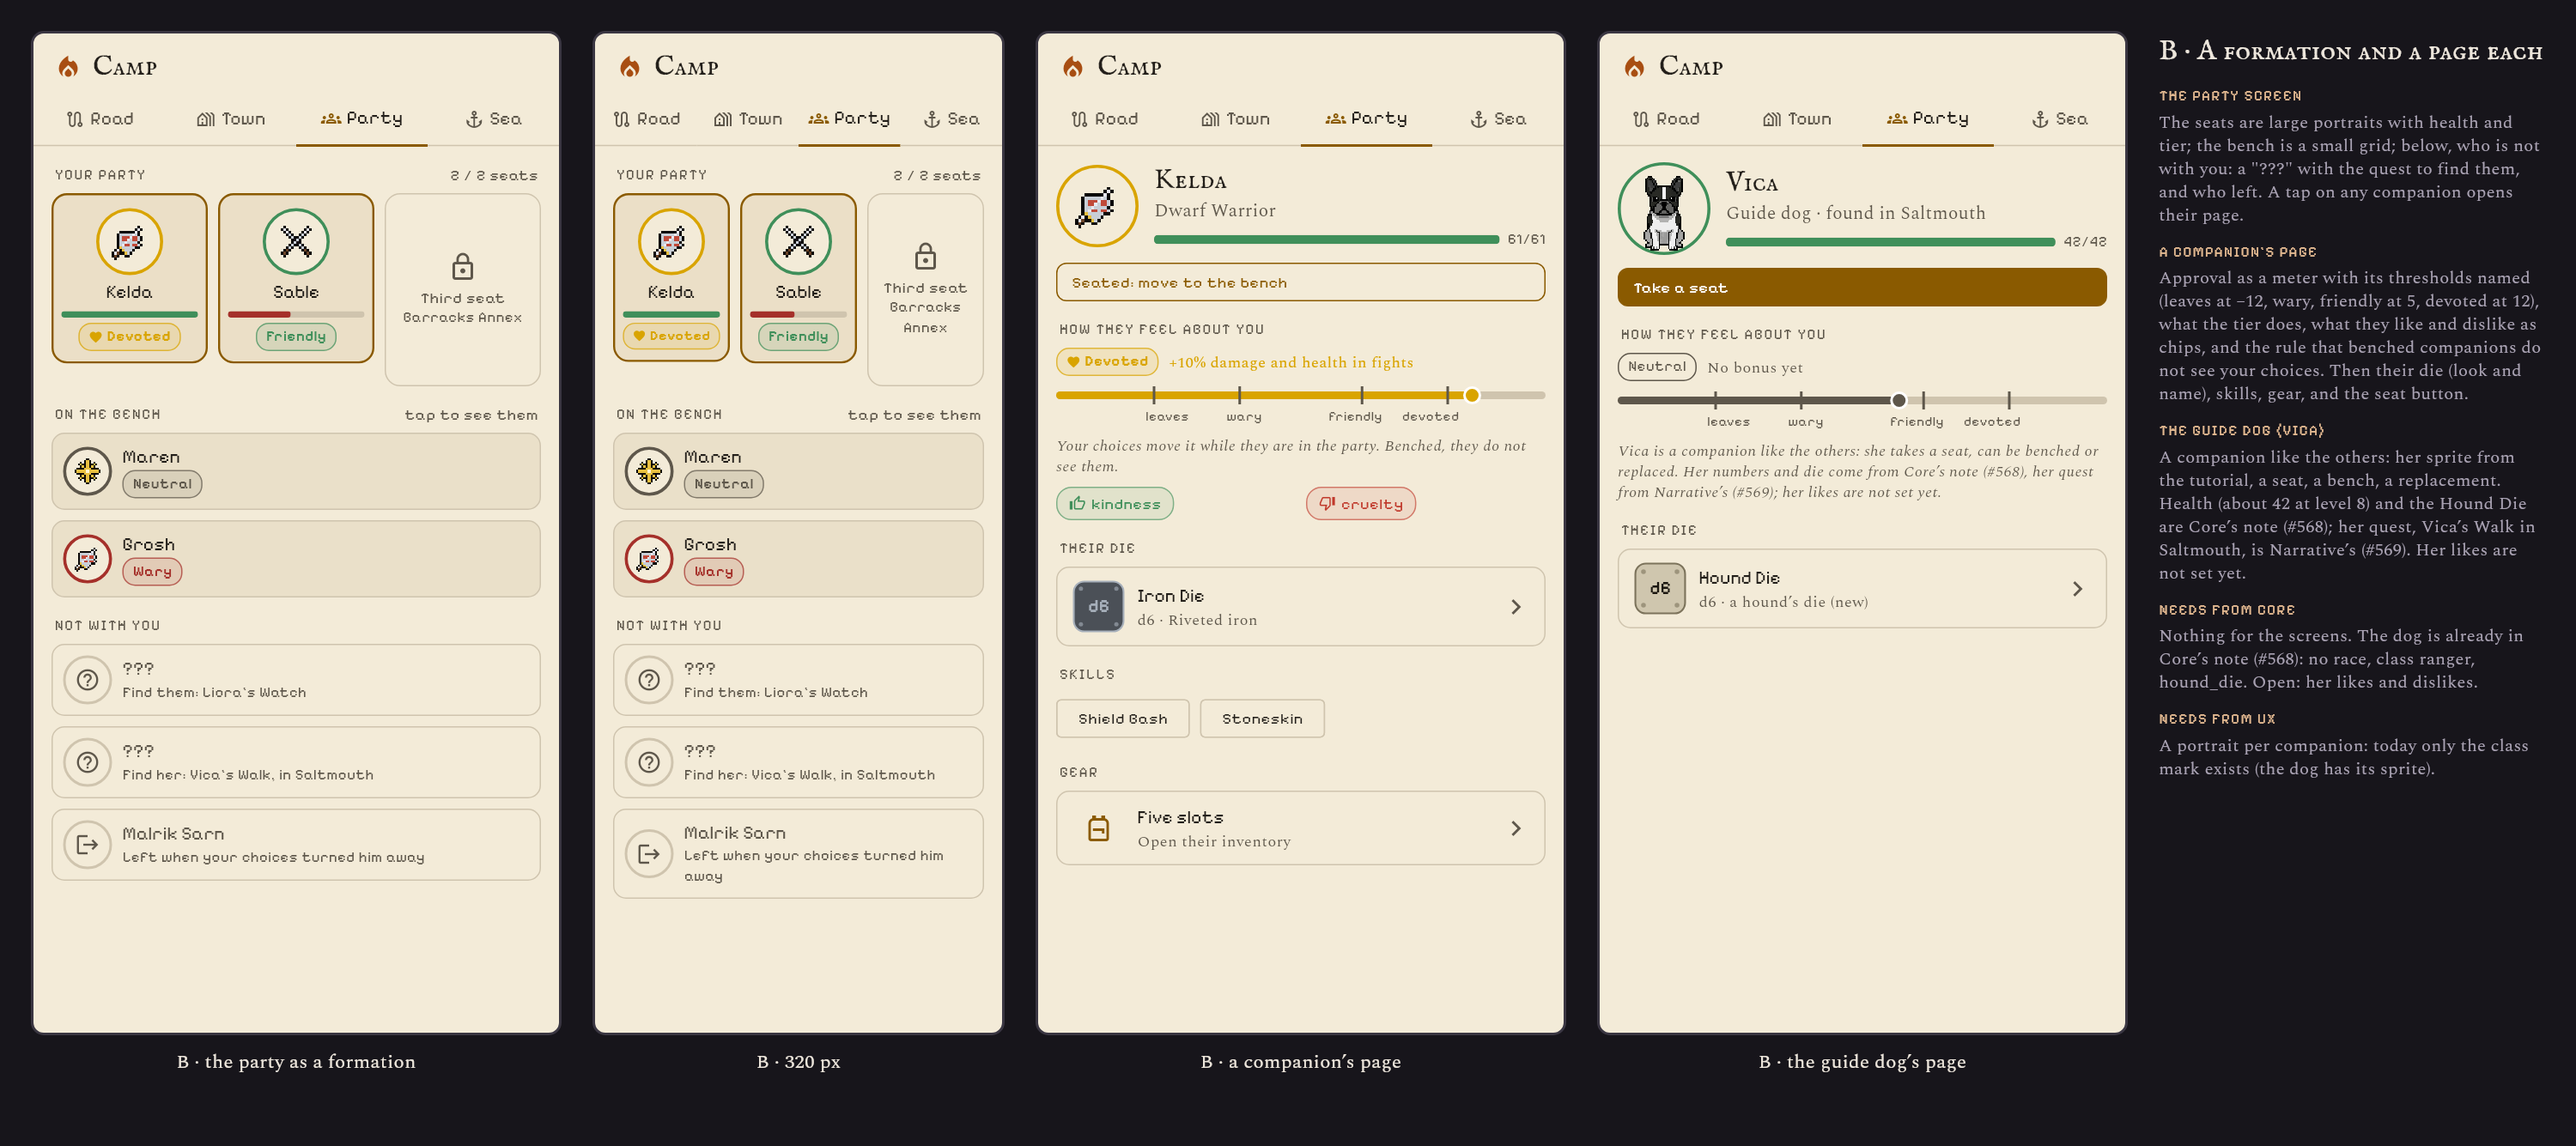
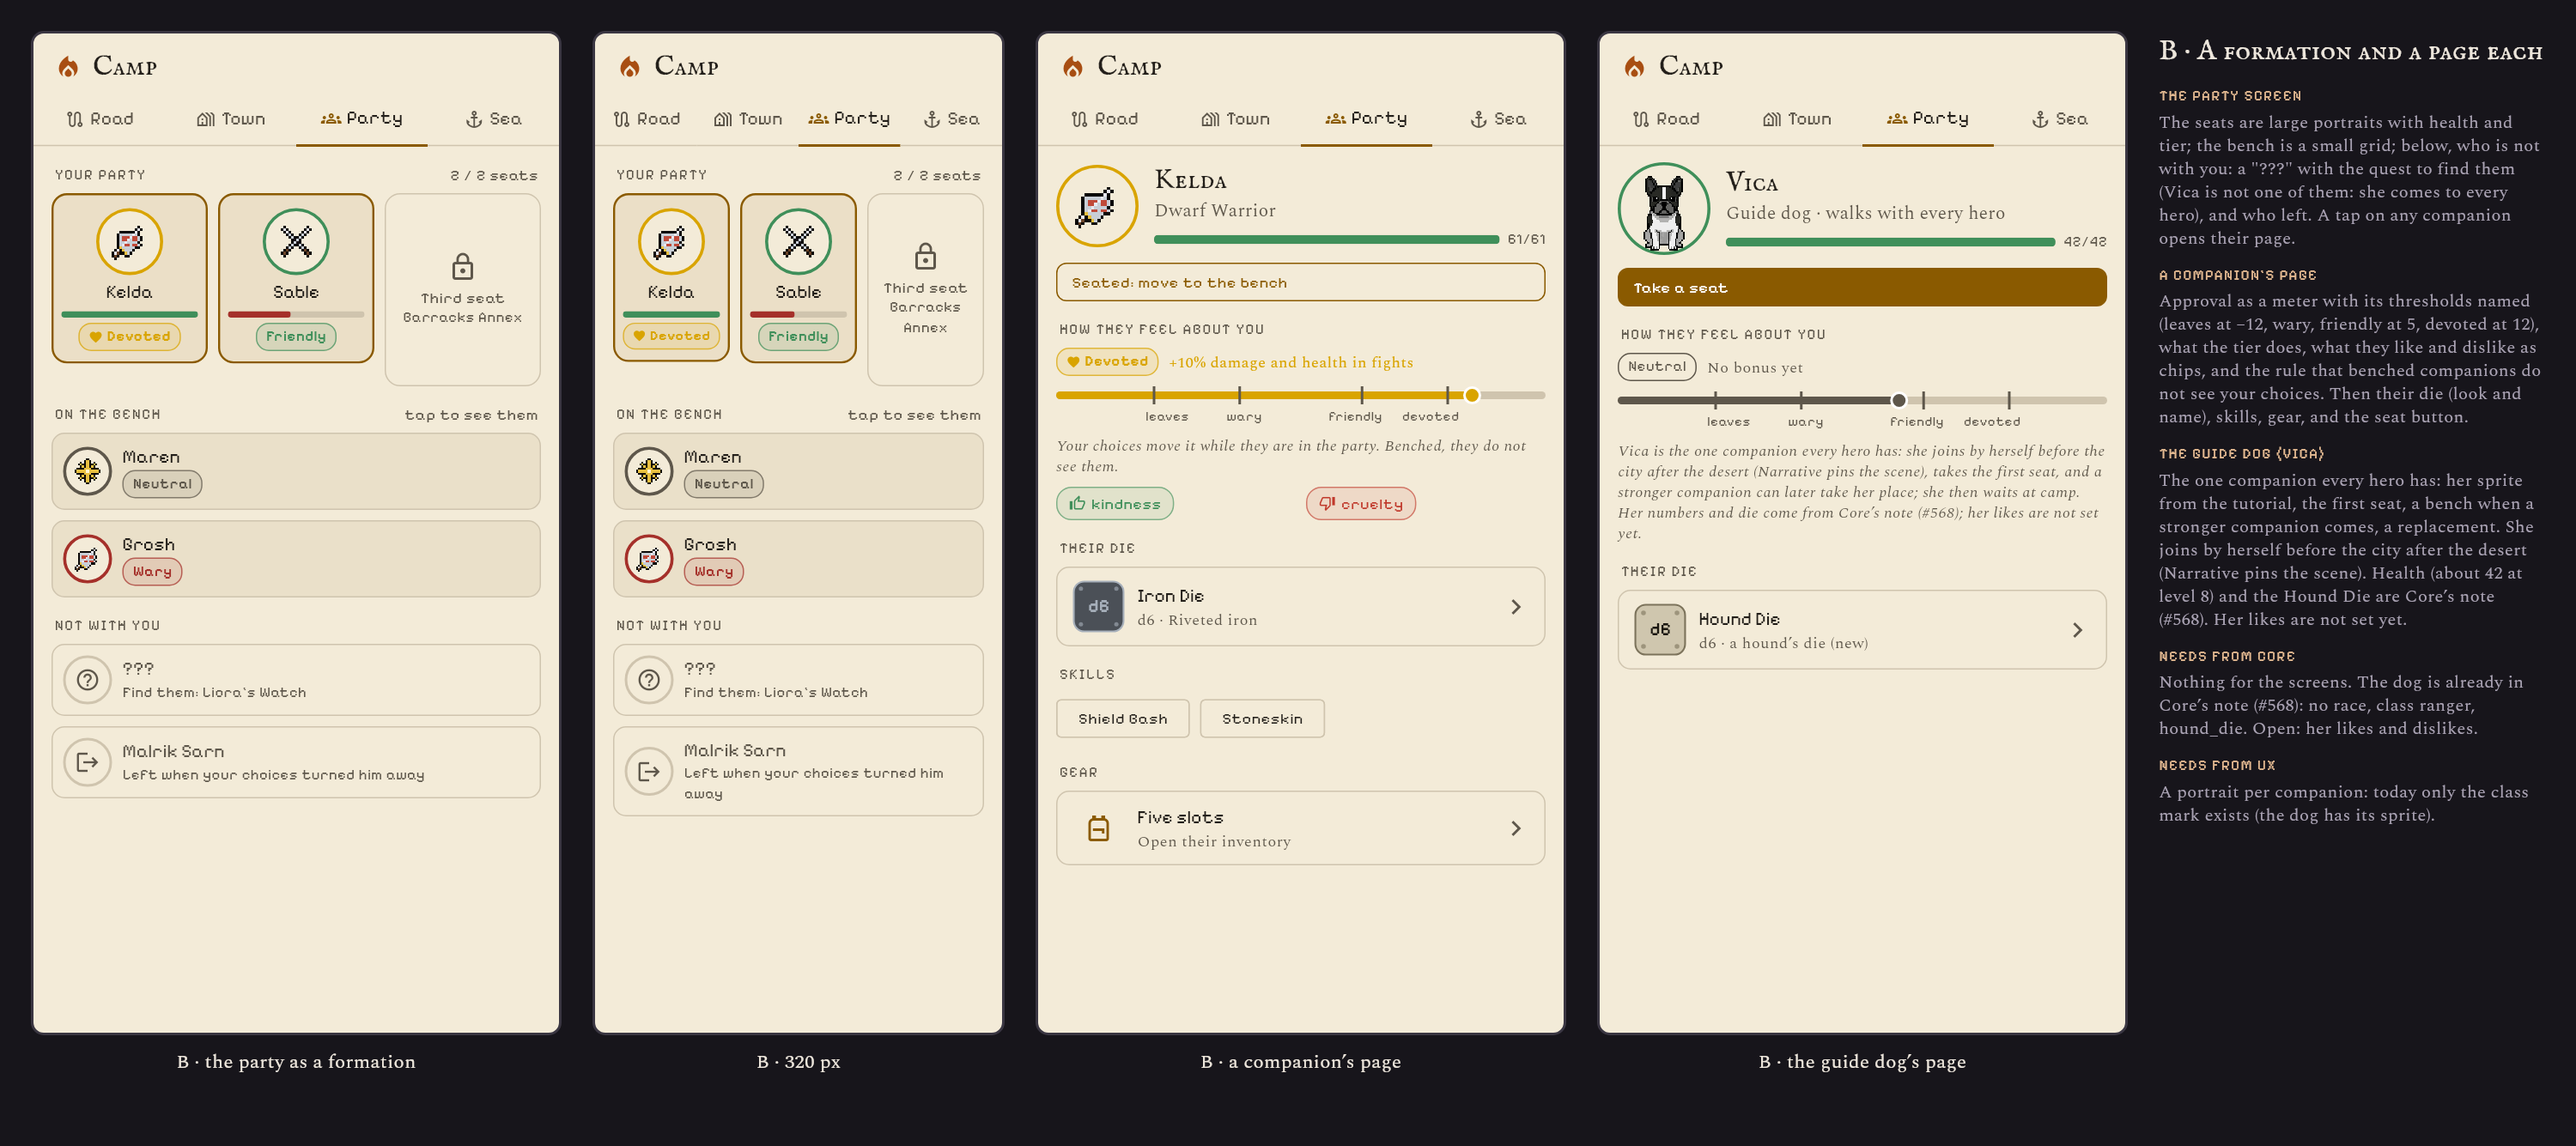
UX: Vica is the mandatory companion: the camp with only her, the swap when a stronger one arrives (note, mock and pictures)
Claude-Session: https://claude.ai/code/session_01Y8cU3zPWWudNpnZGCrkKEc

diff --git a/test/ux_companion_mock_parts.dart b/test/ux_companion_mock_parts.dart
@@ -680,11 +680,15 @@ AllyInfo wickInfo(Map<String, dynamic> professions, {bool active = false}) =>
     );
 
 class BPage extends StatelessWidget {
-  const BPage({super.key, this.withVica = false});
+  const BPage({super.key, this.withVica = false, this.onlyVica = false});
 
   /// Vica on the bench, and the note that she waits at camp (the frame after
   /// a stronger companion took her seat).
   final bool withVica;
+
+  /// The hero with only Vica: she is the one seated companion, the second
+  /// seat is open, the bench is empty.
+  final bool onlyVica;
 
   @override
   Widget build(BuildContext context) {
@@ -693,10 +697,12 @@ class BPage extends StatelessWidget {
       final ink = InkColors.of(context);
       final professions =
           ref.watch(localizedDbProvider(professionsSchema)).value ?? const {};
-      final seated = allies.where((a) => a.active).toList();
+      final seated = onlyVica
+          ? [wickInfo(professions, active: true)]
+          : allies.where((a) => a.active).toList();
       final bench = [
         if (withVica) wickInfo(professions),
-        ...allies.where((a) => !a.active),
+        if (!onlyVica) ...allies.where((a) => !a.active),
       ];
       Widget bigSeat(AllyInfo a) => Expanded(
             child: Container(
@@ -793,6 +799,32 @@ class BPage extends StatelessWidget {
               trailing: '${seated.length} / 2 seats'),
           Row(crossAxisAlignment: CrossAxisAlignment.start, children: [
             for (final a in seated) ...[bigSeat(a), const SizedBox(width: 8)],
+            if (onlyVica) ...[
+              Expanded(
+                child: Container(
+                  height: 150,
+                  padding: const EdgeInsets.all(8),
+                  decoration: BoxDecoration(
+                    borderRadius: BorderRadius.circular(12),
+                    border: Border.all(color: ink.gold.withValues(alpha: 0.5)),
+                  ),
+                  child: Column(
+                      mainAxisAlignment: MainAxisAlignment.center,
+                      children: [
+                        Icon(Icons.add, color: ink.gold),
+                        const SizedBox(height: 4),
+                        Text('Open seat',
+                            style: theme.textTheme.labelMedium
+                                ?.copyWith(color: ink.gold)),
+                        Text('Companions you recruit sit here',
+                            textAlign: TextAlign.center,
+                            style: theme.textTheme.labelSmall
+                                ?.copyWith(color: ink.ash)),
+                      ]),
+                ),
+              ),
+              const SizedBox(width: 8),
+            ],
             Expanded(
               child: Container(
                 height: 150,
@@ -835,10 +867,6 @@ class BPage extends StatelessWidget {
                 padding: const EdgeInsets.only(bottom: 8),
                 child: ghost('???', 'Find them: ${questOf(c)}'),
               ),
-            Padding(
-              padding: const EdgeInsets.only(bottom: 8),
-              child: ghost('???', 'Find her: Vica’s Walk, in Saltmouth'),
-            ),
             ghost('Malrik Sarn', 'Left when your choices turned him away',
                 lost: true),
           ]),
@@ -1116,7 +1144,7 @@ class DogPage extends StatelessWidget {
                 Text('Vica',
                     style: theme.textTheme.titleLarge
                         ?.copyWith(fontFamily: InkFonts.display)),
-                Text('Guide dog · found in Saltmouth',
+                Text('Guide dog · walks with every hero',
                     style:
                         theme.textTheme.bodyMedium?.copyWith(color: ink.ash)),
                 const SizedBox(height: 4),
@@ -1154,7 +1182,7 @@ class DogPage extends StatelessWidget {
         const ApprovalMeter(approval: startingApproval),
         const SizedBox(height: 6),
         Text(
-            'Vica is a companion like the others: she takes a seat, can be benched or replaced. Her numbers and die come from Core’s note (#568), her quest from Narrative’s (#569); her likes are not set yet.',
+            'Vica is the one companion every hero has: she joins by herself before the city after the desert (Narrative pins the scene), takes the first seat, and a stronger companion can later take her place; she then waits at camp. Her numbers and die come from Core’s note (#568); her likes are not set yet.',
             style: theme.textTheme.bodySmall
                 ?.copyWith(color: ink.ash, fontStyle: FontStyle.italic)),
         sectionTitle(context, 'Their die'),
@@ -1233,7 +1261,7 @@ class NotesPanel extends StatelessWidget {
 }
 
 // ---------------------------------------------------------------------------
-// The guide dog's moments: the tutorial, joining at Saltmouth, the swap.
+// The guide dog's moments: the tutorial, joining every hero, the swap.
 // ---------------------------------------------------------------------------
 
 /// A dimmed page under a moment.

diff --git a/test/ux_companion_mock_test.dart b/test/ux_companion_mock_test.dart
@@ -297,7 +297,7 @@ void main() {
           const NotesPanel(title: 'B · A formation and a page each', sections: [
         (
           'The party screen',
-          'The seats are large portraits with health and tier; the bench is a small grid; below, who is not with you: a "???" with the quest to find them, and who left. A tap on any companion opens their page.'
+          'The seats are large portraits with health and tier; the bench is a small grid; below, who is not with you: a "???" with the quest to find them (Vica is not one of them: she comes to every hero), and who left. A tap on any companion opens their page.'
         ),
         (
           'A companion’s page',
@@ -305,7 +305,7 @@ void main() {
         ),
         (
           'The guide dog (Vica)',
-          'A companion like the others: her sprite from the tutorial, a seat, a bench, a replacement. Health (about 42 at level 8) and the Hound Die are Core’s note (#568); her quest, Vica’s Walk in Saltmouth, is Narrative’s (#569). Her likes are not set yet.'
+          'The one companion every hero has: her sprite from the tutorial, the first seat, a bench when a stronger companion comes, a replacement. She joins by herself before the city after the desert (Narrative pins the scene). Health (about 42 at level 8) and the Hound Die are Core’s note (#568). Her likes are not set yet.'
         ),
         (
           'Needs from Core',
@@ -334,7 +334,7 @@ void main() {
         ),
         (
           412,
-          'Saltmouth: the guide joins, same sprite, same name',
+          'Every hero: the guide joins, same sprite, same name',
           const DogMoment(
             speaker: 'Vica',
             text: 'Vica falls in beside you, nose to your heel.',
@@ -343,13 +343,23 @@ void main() {
             tag: 'New companion',
           )
         ),
-        (412, 'Kelda arrives, the seats are full', const ArrivalSheet()),
+        (
+          412,
+          'The camp with only Vica: first seat, an open one',
+          const BPage(onlyVica: true)
+        ),
+        (
+          412,
+          'A stronger companion arrives, the seats are full',
+          const ArrivalSheet()
+        ),
         (
           412,
           'After: Vica waits at camp, and it says so',
           const BPage(withVica: true)
         ),
       ],
+      height: 860,
       container: container,
       notes: const NotesPanel(
         title: 'The dog: from the tutorial to the bench',
@@ -359,8 +369,12 @@ void main() {
             'Today the guide is a walking and sitting dog with a speech bubble, named by the player in Settings (default "your companion"), and it looks different for a good or an evil hero (an angel or a demon). It is not on the Party tab.'
           ),
           (
-            'The handover at Saltmouth',
-            'When the quest ends, the same dog, with the same bubble, says one line, and the Party tab gets her card with a "New companion" tag. She keeps the name the player gave her (Vica when they never named her) and her look (neutral, angel or demon). One moment, one tap.'
+            'The handover (before the city after the desert)',
+            'When the scene Narrative pins plays, the same dog, with the same bubble, says one line, and the Party tab gets her card with a "New companion" tag. She keeps the name the player gave her (Vica when they never named her) and her look (neutral, angel or demon). One moment, one tap.'
+          ),
+          (
+            'The camp with only Vica',
+            'Every hero has her, so the Party tab is never empty: she holds the first seat, the second is an open seat that says what it is for, the third is locked until the Barracks Annex. The bench is empty and "Not with you" lists the companions still to find.'
           ),
           (
             'The swap moment',

diff --git a/docs/proposals/companion-interface.md b/docs/proposals/companion-interface.md
@@ -1,8 +1,9 @@
 # The camp's Companion interface: a review and two versions (UX, nothing built)
 
 The user: "Could you review the UX of the Companion interface in the camp?" Context: a guide dog (the
-sprite of the tutorial) becomes a normal, replaceable companion earned through a quest in the second
-big town, so the roster and the seat swap matter more. Seats today: two; a third with the Barracks
+sprite of the tutorial) is **Vica, the one companion every hero has**: she joins automatically before
+the city after the desert (Narrative pins the scene), and stronger companions replace her in the party
+later, so the Party tab always has at least her, and the seat swap matters more. Seats today: two; a third with the Barracks
 Annex. Pictures only: no build, no version. Mock test: `test/ux_companion_mock_test.dart` (parts in
 `test/ux_companion_mock_parts.dart`).
 
@@ -10,7 +11,7 @@ Annex. Pictures only: no build, no version. Mock test: `test/ux_companion_mock_t
 |---|---|
 | `docs/ux-shots/companion-today.png` | The real Party tab of the camp at 320 and 412 px, the top and the end (four companions: devoted, friendly, neutral, wary; two seated, two benched). |
 | `docs/ux-shots/companion-a.png` | A: the same list, calmer, with a seat strip and a one-tap swap. |
-| `docs/ux-shots/companion-dog.png` | The guide dog's moments: the tutorial, joining at Saltmouth, a stronger companion arriving, and the bench after. |
+| `docs/ux-shots/companion-dog.png` | The guide dog's moments: the tutorial, joining every hero, the camp with only her, a stronger companion arriving, and the bench after. |
 | `docs/ux-shots/companion-b.png` | B: a different shape: the party as a formation, a page for each companion, who is not (or no longer) with you; the guide dog's page. |
 
 ## What is hard, ranked by how much it hurts the player
@@ -54,25 +55,27 @@ Annex. Pictures only: no build, no version. Mock test: `test/ux_companion_mock_t
 ## B. A formation and a page each (`companion-b.png`)
 - **The party screen:** the seats as large portraits with health and tier; the bench as a small grid
   (tap to open); below, **"Not with you"**: a "???" with the quest to find them (from
-  `recruitQuestId`), and who left.
+  `recruitQuestId`; Vica is not one of them, she comes to every hero), and who left.
 - **A companion's page:** their portrait, health, the seat button; approval as a **meter with its
   thresholds named** (leaves at −12, wary at −5, friendly at 5, devoted at 12), what the tier
   does, likes and dislikes as chips, and the line that benched companions do not see your choices; then
   their die (look and name, a tap opens the ring), skills, gear.
-- **The guide dog's page** (last frame): Vica, her sprite from the tutorial, "Guide dog · found in
-  Saltmouth", a seat, a bench, the Hound Die. Her numbers and die are Core's (#568), her quest (Vica's
-  Walk) Narrative's (#569); her likes and dislikes are not set yet.
+- **The guide dog's page** (last frame): Vica, her sprite from the tutorial, "Guide dog · walks
+  with every hero", the first seat, a bench when a stronger companion comes, the Hound Die. Her numbers
+  and die are Core's (#568); her joining scene is Narrative's; her likes and dislikes are not set yet.
 - Cost: a new page and a rebuilt Party tab: about two days of UX, more than A.
 
 ## The guide dog: from the tutorial to the bench (`companion-dog.png`)
-From Core's note (#568: the dog joins at Saltmouth as a normal ranger-class companion, weaker than Kelda
-and Sable, benched once a stronger one joins) and Narrative's (#569: Vica, Vica's Walk).
+From Core's note (#568: the dog is a ranger-class companion, weaker than Kelda and Sable, benched once a
+stronger one joins) and the user's later word: she is **mandatory**, every hero gets her automatically
+before the city after the desert (Narrative pins the scene), and other companions replace her in the
+party later.
 - **The tutorial guide today:** a walking and sitting dog with the speech bubble (the real
   `SpeechBubble`), named by the player in Settings (`companionNameProvider`, default "your
   companion"), and a different look for a good or an evil hero (angel or demon). It is not on the Party
   tab.
-- **The handover at Saltmouth (one small moment):** when Vica's Walk ends, the same dog, with the same
-  bubble, says one line, and the Party tab gets her card with a "New companion" tag. She keeps the name
+- **The handover (one small moment):** when the scene Narrative pins plays (before the city after the
+  desert), the same dog, with the same bubble, says one line, and the Party tab gets her card with a "New companion" tag. She keeps the name
   the player gave the guide (Vica when they never named it) and her look. Narrative writes the line.
 - **The swap moment (a stronger companion arrives):** today a recruit is seated only up to capacity, so
   Kelda, arriving with the seats full, lands on the bench **without a word**, and nothing tells the
@@ -80,6 +83,10 @@ and Sable, benched once a stronger one joins) and Narrative's (#569: Vica, Vica'
   walks with you?", with one row per choice ("Kelda for Vica", "Kelda for Sable", "Kelda waits at camp,
   for now"), each saying who waits at camp, and one line on what waiting means: they keep their health
   and gear, do not see your choices, and can come back from the Party tab.
+- **The camp with only Vica (third frame):** every hero has her, so the Party tab is never empty. She
+  holds the first seat; the second is an **open seat** that says what it is for ("Companions you
+  recruit sit here"); the third stays locked until the Barracks Annex; the bench is empty; "Not with
+  you" lists the companions still to find.
 - **After:** the bench shows Vica, and a gold note says it once: "Vica waits at camp. Kelda walks with
   you. Vica keeps her health and her gear, does not see your choices, and can come back: tap her."
 - **Needs:** Narrative: the one line at the handover, the dog taking the player's name for the guide
@@ -89,8 +96,8 @@ and Sable, benched once a stronger one joins) and Narrative's (#569: Vica, Vica'
 
 ## What each needs from Core
 - **A:** nothing.
-- **B:** nothing for the screens. The dog is in Core's note (#568: no race, class ranger, `hound_die`,
-  about 42 health at level 8) and Narrative's (#569: Vica's Walk, Saltmouth); what is still open for
+- **B:** nothing for the screens. One question: can the player bench Vica at once, or only when a stronger companion needs her seat? (The frames assume the second.) The dog is in Core's note (#568: no race, class ranger, `hound_die`,
+  about 42 health at level 8); her joining scene is Narrative's; what is still open for
   Core is her likes and dislikes (approval weights) and whether her page shows a class at all (the
   picture shows none, only "Guide dog"). For "Not with you": whether to show a companion not yet met as a "???" (a spoiler
   question for the story) and a record of who left (today `loseAlly` drops them; a list of the lost,
